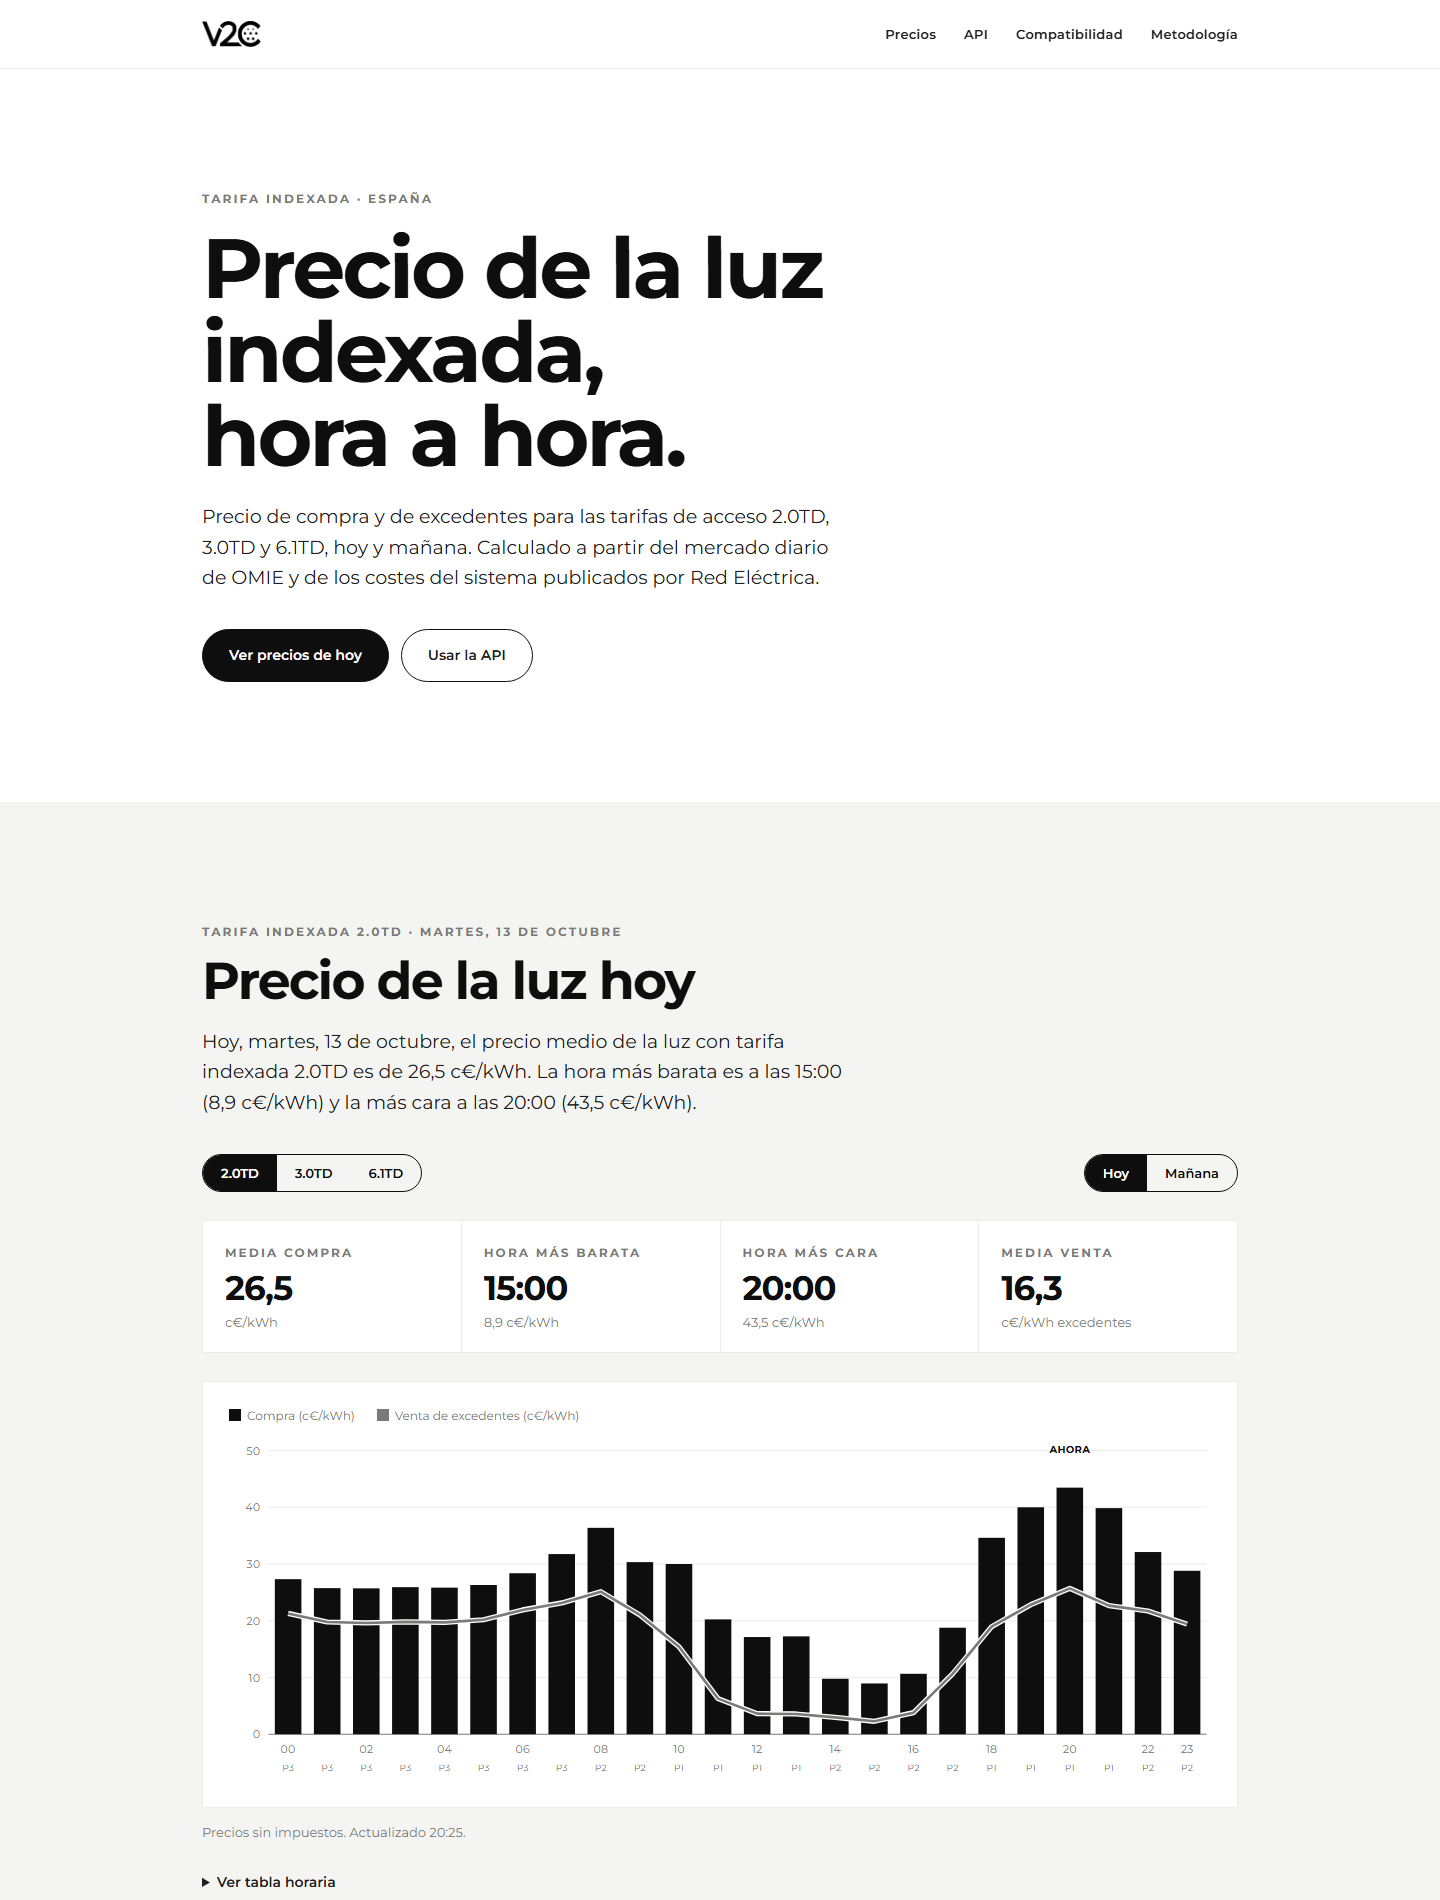
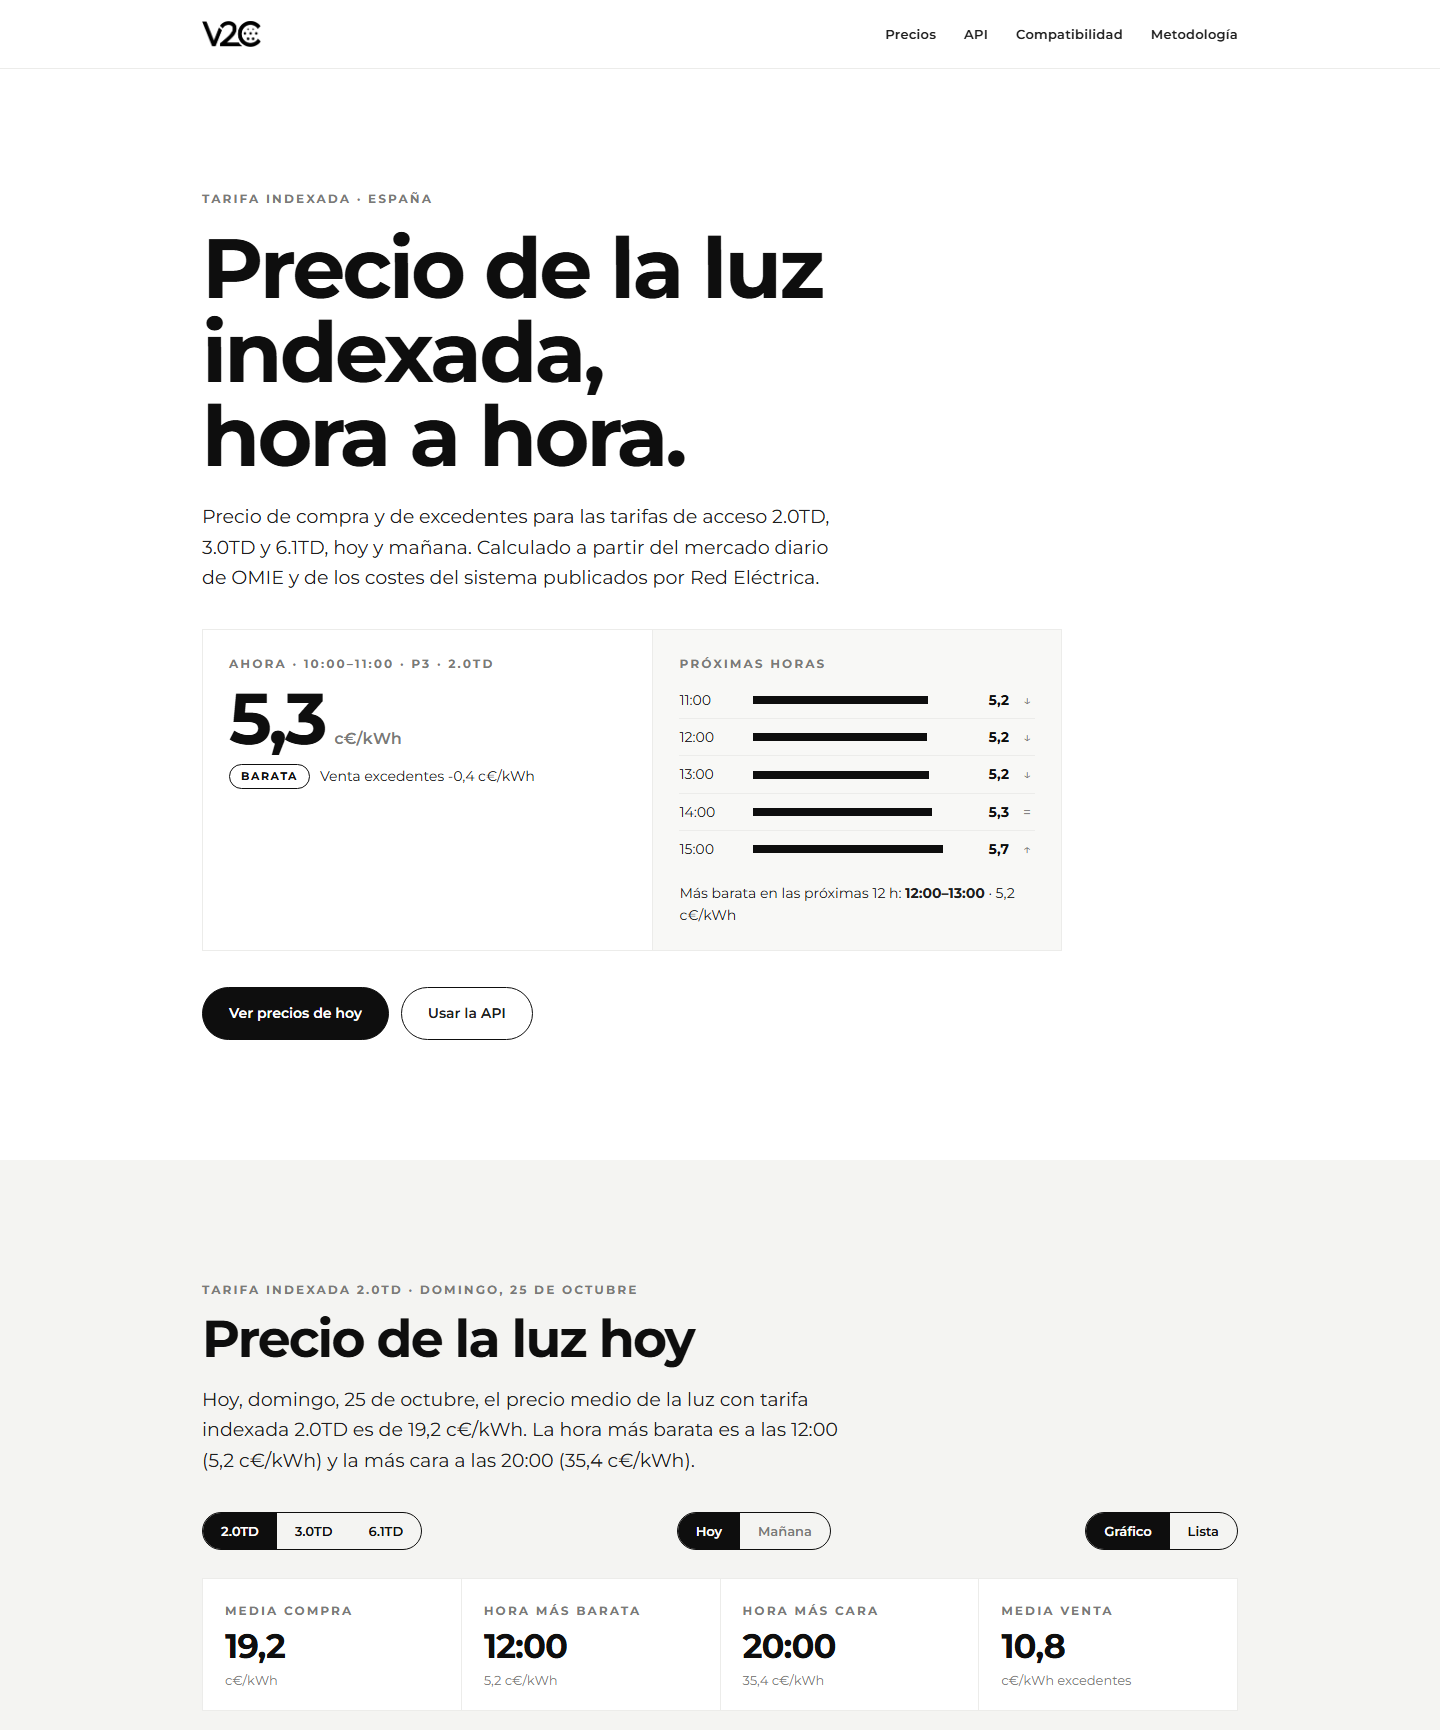
Pérdidas oficiales × coeficiente K, campo perdidas_pct, producto indexada_con_ajustes y captura nueva

diff --git a/README.md b/README.md
@@ -16,6 +16,8 @@ venta de excedentes de autoconsumo. Con **API REST pública y gratuita**, sin re
 ## Qué ofrece
 
 - **Precio de hoy y de mañana**, hora a hora, para 2.0TD, 3.0TD y 6.1TD (Península).
+- **Precio de ahora** destacado en la web, con las próximas horas y la más barata de las siguientes 12 h;
+  en el móvil, vista de lista hora a hora.
 - **Compra y venta**: precio de la energía consumida y valor de los excedentes vertidos.
 - **Periodo tarifario** de cada hora (P1…P6), con fines de semana y festivos nacionales.
 - **Horas más baratas** y mejor franja para programar cargas: coche eléctrico, batería, bomba de calor.
@@ -64,6 +66,8 @@ Respuesta de una hora:
   "venta_eur_kwh": 0.289803,
   "provisional": false,
   "pmd_eur_mwh": 293.39,
+  "ajustes_eur_mwh": 42.59,
+  "perdidas_pct": 15.62,
   "components_eur_kwh": { "energia": 0.37451, "peaje": 0.033261, "cargo": 0.064292 }
 }
 ```
@@ -77,11 +81,14 @@ Respuesta de una hora:
 | GET | `/v1/prices/now?tariff=…` | Precio de la hora en curso |
 | GET | `/v1/prices/cheapest?tariff=…&n=4&block=3` | Horas más baratas y mejor franja contigua |
 | POST | `/v1/simulate` | Factura estimada con consumo horario y excedentes |
-| GET | `/v1/status` | Qué días tienen precios publicados y si son definitivos |
+| GET | `/v1/status` | Qué días tienen precios, ajustes y coeficiente de pérdidas publicados |
 | GET | `/v1/periods?tariff=…&on=…` | Periodo tarifario de cada hora |
 | GET | `/v1/regulated?tariff=…` | Peajes y cargos vigentes |
 
 `tariff`: `2.0TD`, `3.0TD` o `6.1TD`.
+
+`product` (opcional): `indexada` (por defecto: servicios de ajuste repercutidos en 2.0TD) o
+`indexada_con_ajustes` (coste completo: también en 3.0TD y 6.1TD).
 
 ### Rutas por fecha (compatibles con flujos Node-RED existentes)
 
@@ -110,13 +117,18 @@ Campos: `costeConsumo`, `costePeaje`, `pagoVertido`, `perdidas`, `periodo`, `fec
 ## Cómo se calcula
 
 ```
-compra = k_periodo × mercado + w × ajustes + peaje + cargo
-venta  = mercado − descuento
+pérdidas = coeficiente oficial del periodo × K horario
+compra   = mercado × (1 + pérdidas) + w × ajustes + peaje + cargo
+venta    = mercado − descuento
 ```
 
 - **mercado**: precio del mercado diario de OMIE (España), media horaria de los cuartos de hora.
+- **pérdidas**: coeficiente de pérdidas de cada tarifa y periodo fijado por la CNMC (Circular 3/2020,
+  art. 11) multiplicado por el coeficiente K horario de ajuste de pérdidas que publica Red Eléctrica. Cada hora
+  lo devuelve en `perdidas_pct`.
 - **ajustes**: servicios de ajuste y otros costes del sistema publicados por Red Eléctrica (ESIOS).
-- **k, w, descuento**: pérdidas de red y margen de comercialización de una oferta indexada típica.
+  `w` es el peso con que los repercute el producto.
+- **descuento**: diferencia aplicada al precio de los excedentes en 2.0TD.
 - **peaje y cargo**: valores regulados (CNMC y Ministerio para la Transición Ecológica) por periodo.
 
 Fuentes: OMIE, Red Eléctrica (ESIOS), CNMC, MITECO.
